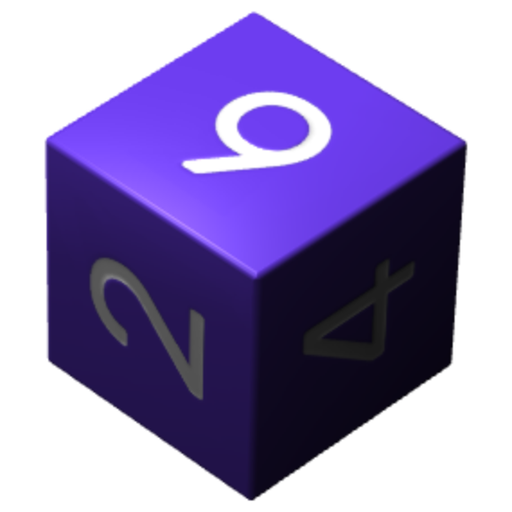
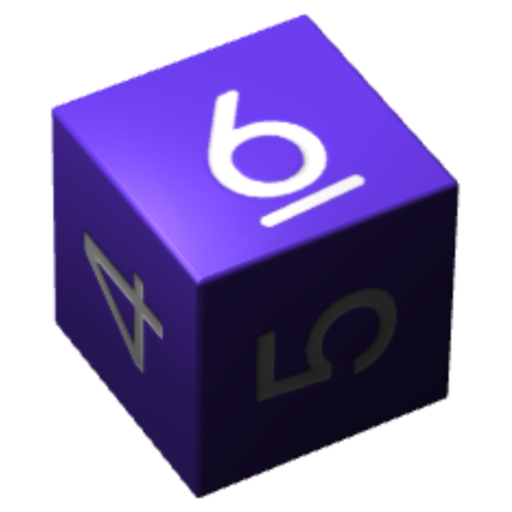
Rotate d6 preview, center slider and rolled dice on screen center

diff --git a/src/style.css b/src/style.css
@@ -26,7 +26,8 @@ body { background:
 .die-name { font-size: 20px; letter-spacing: .35em; text-transform: uppercase; color: var(--gold); text-indent: .35em; }
 .die-sub { margin-top: 6px; font-size: 12px; letter-spacing: .12em; color: var(--muted); font-family: system-ui, sans-serif; min-height: 16px; }
 
-.carousel { position: relative; align-self: center; height: 100%; width: 100%; overflow: hidden; }
+.carousel { position: absolute; inset: 0; z-index: 0; overflow: hidden; } /* на весь экран: центр слайдера и кубиков = центр экрана */
+.top, .result, .bottom { position: relative; z-index: 1; }
 .track { position: absolute; left: 0; top: 50%; display: flex; align-items: center; height: 0; transition: transform .45s cubic-bezier(.2,.8,.2,1); will-change: transform; }
 .slot { flex: none; width: var(--slot, 120px); display: flex; justify-content: center; align-items: center; transition: transform .45s cubic-bezier(.2,.8,.2,1), opacity .45s, filter .45s; transform: scale(.52); opacity: .28; filter: grayscale(.8) blur(.4px); cursor: pointer; }
 .slot.near { opacity: .4; }
@@ -79,3 +80,4 @@ body { background:
 .stage.landed .slot:not(.near):not(.active) { opacity: 0; }
 
 .stage.landed .slot.near { transform: translateX(var(--shift, 0px)) scale(.52); }
+.result { grid-row: 3; } .bottom { grid-row: 4; }
